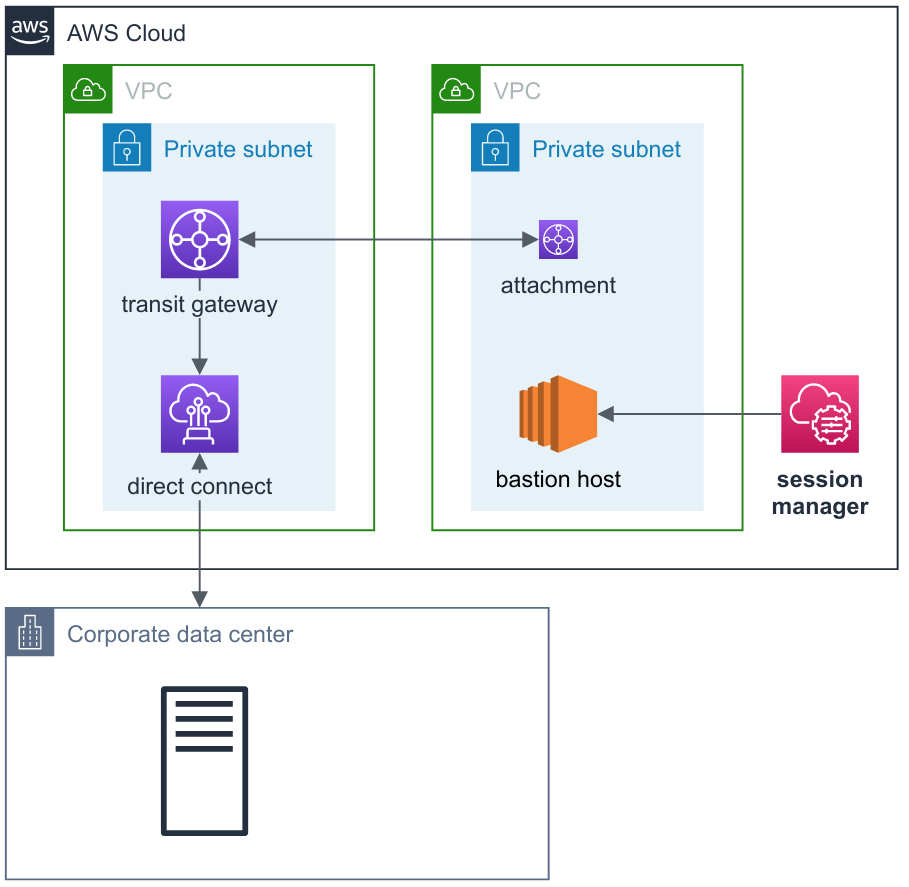
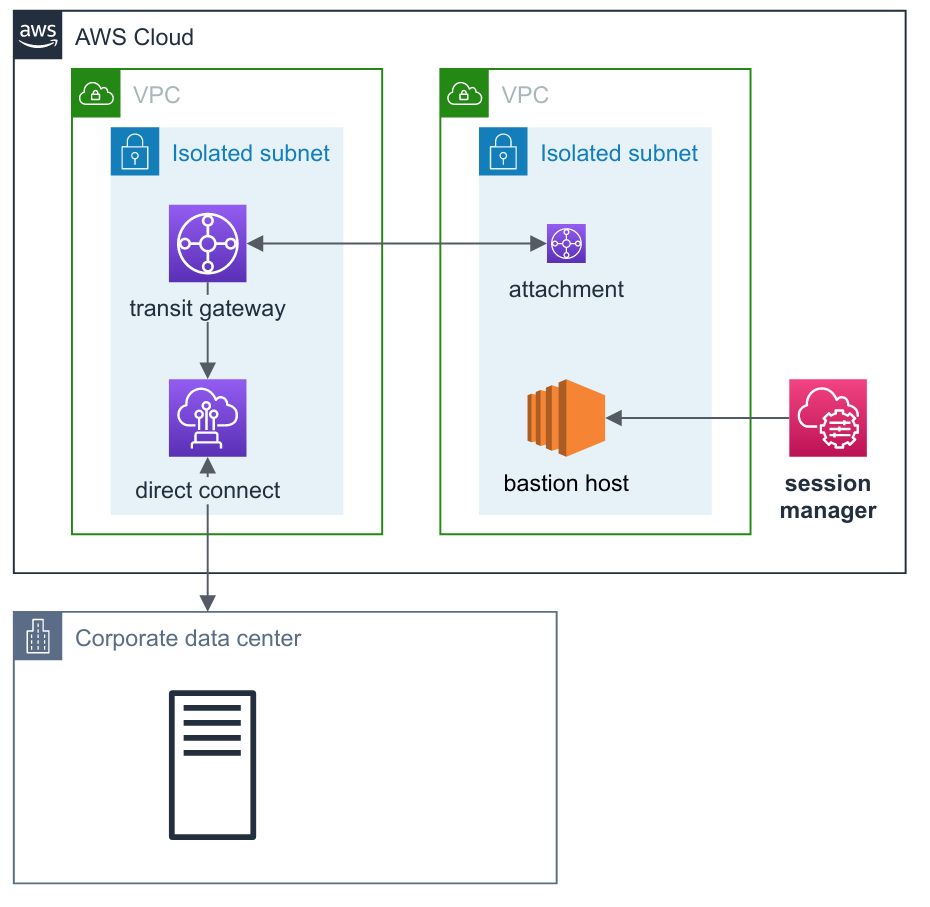
small fixes and addressing pr feedback

Changed region(s): [[0.0, 0.0, 1.0, 1.0], [0.154, 0.761, 0.2772, 0.9436]]

diff --git a/_posts/2020-07-06-private-bastions.md b/_posts/2020-07-06-private-bastions.md
@@ -19,19 +19,19 @@ The problem with any bastion host is the public attack surface that it leaves ex
 AWS Systems Manager released a feature in 2018 called *Session Manager*, allowing the ability to connect directly to EC2 hosts without the need to expose any ports on those hosts (for example, port 22 for SSH). There are two ways you can make this work:
 
 * Place your EC2 in a public subnet with a public IPV4 address
-* Place your EC2 in a private subnet and create VPC endpoints to SSM related services
+* Place your EC2 in an isolated subnet and create VPC endpoints to SSM related services
 
 Today we'll focus on the second strategy.
 
 ## Use Cases
 
-Here's a couple of scenarios to explain why you might want to use Session Manager to access resources in private subnets.
+Here are two scenarios to explain why you might want to use Session Manager to access resources in private subnets.
 
-The first scenario is that you deploy an application consisting of microservices and a database to private subnets, made public by a load balancer in a public subnet. If you want the ability to test these services within the network, a private bastion might be a good way to do that:
+The first scenario is that you deploy an application consisting of microservices and a database to isolated subnets, made public by a load balancer in a public subnet. If you want the ability to test these services within the network, a private bastion might be a good way to do that:
 
 ![Scenario 1](/img/blog/ssm-private-terminal/scenario1.png)
 
-Another use case is that you have a hybrid network consisting of AWS resources and on-premise networks, perhaps by interconnected by a Transit Gateway attachment. In such scenarios, you may be forbidden from placing EC2 resources in public subnets or you may not even have an Internet Gateway at all:
+Another use case is that you have a hybrid network consisting of AWS resources and on-premise networks, perhaps interconnected by a Transit Gateway attachment. In such scenarios, you may be forbidden from placing EC2 resources in public subnets or you may not even have an Internet Gateway at all:
 
 ![Scenario 2](/img/blog/ssm-private-terminal/scenario2.png)
 
@@ -42,11 +42,11 @@ I decided to do something different for this blog, using CDK instead of CloudFor
 So here's what we are going to create
 
 * A new VPC
-* Some private subnets, route tables and security groups
+* Some isolated subnets, route tables and security groups
 * An EC2 instance to act as the *bastion host*
 * Some VPC Endpoints so our EC2's SSM agent can connect to Session Manager
 
-I'm not going to explain how CDK works ~~because I'm lazy~~, instead I'll just focus on the code and how surprisingly terse it is. I did my app in TypeScript but you could use any of the other supported languages such as JavaScript, Python, Java, and C#/. Net.  The following snippets are taken from the file `lib/blog-ssm-private-terminal-stack.ts`
+I'm not going to explain how CDK works ~~because I'm lazy~~, instead I'll just focus on the code and how surprisingly terse it is. I did my app in TypeScript but you could use any of the other supported languages such as JavaScript, Python, Java, and C#/. Net.  The following snippets are taken from the file `lib/blog-ssm-private-terminal-stack.ts`, found in the Github repo [https://github.com/MechanicalRock/cdk-ssm-private-terminal](https://github.com/MechanicalRock/cdk-ssm-private-terminal).
 
 ## Code
 
@@ -70,7 +70,7 @@ Ok so I'm in my typescript file - I'm going to create my VPC and its subnets and
 
 Wow, this was surprisingly easy. So assuming you installed the cdk cli tool, you can go and run `cdk synth` to generate the cloudformation that this code would create. You might be surprised and you will learn a lot about how much CDK is doing under the hood. Bear it in mind, because the defaults may not always be what you want.
 
-Above you can see that I've specifically stated that I want `ISOLATED` subnets. Public subnets would have an internet gateway, and I believe private subnets will automatically configure you a NAT gateways, which I do not want for my scenarios. You can see I also specified `maxAzs: 1`; the default is to spread across multiple availability zones, which I also don't want for my scenarios.
+Above you can see that I've specifically stated that I want `ISOLATED` subnets. Public subnets would have an internet gateway, and I believe selecting private subnets will automatically configure you a NAT gateway, which I do not want for my scenarios. You can see I also specified `maxAzs: 1`; the default is to spread across multiple availability zones, which I also don't want for my scenarios.
 
 For me, one of the most rewarding things of using CDK (in VSCode) is the code completion, because it often saves you from having to lookup a million pages of documentation on the internet - the libraries are really well documented regarding the intent and default behaviour of the code. If you need more reference docs, jump to the [latest version of the API docs](https://docs.aws.amazon.com/cdk/api/latest/versions.html)
 
@@ -159,6 +159,7 @@ No more slinging around AMI identifiers for me - CDK can look that up for me. I 
 
 After a few minutes, we are ready to try connecting to our instance. 
 Navigating to the console, we can now see our EC2: 
+
 ![EC2 Instance](/img/blog/ssm-private-terminal/ec2-instance.png)
 
 By clicking on the ***Connect*** button, we can choose to use *Session manager* to connect to our new instance:
